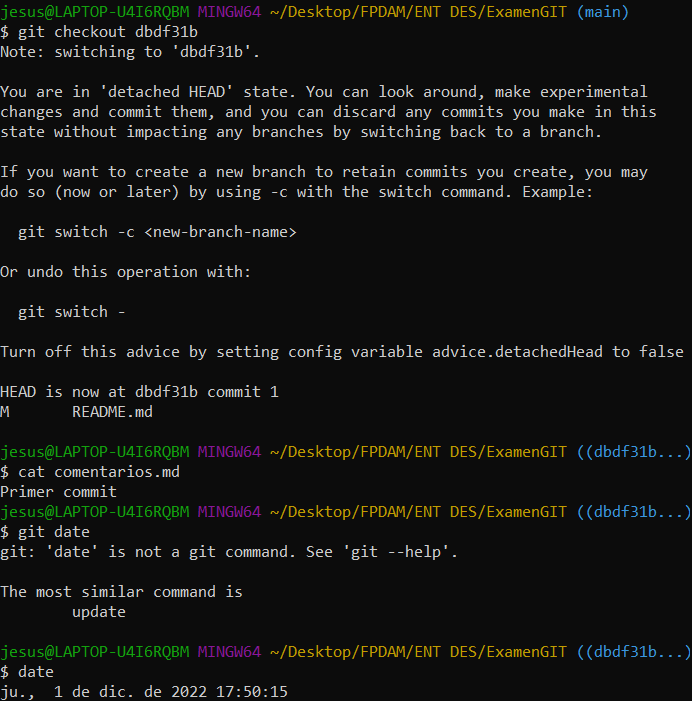
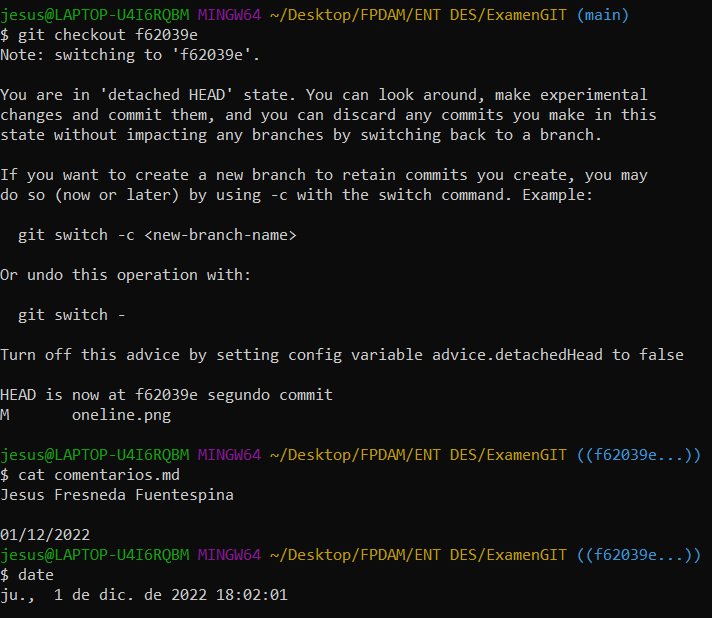
Entrega

diff --git a/README.md b/README.md
@@ -69,19 +69,13 @@ Esos son los commits que tiene nuestro repositorio actualmente. Para comprobar q
 git checkout *cabecera
 ~~~
 
-Por ejemplo, en el commit "commit 1":
+Por ejemplo, en el commit "segundo commit":
 
 ![](checkout1.png)
 
-En el commit "commit 2":
+En el commit "primer commit":
 
 ![](checkout2.png)
-
-Y en el commit "commit 3"
-
-![](checkout3.png)
-
-Y finalmente para movernos a la posición actual de nuestros commits:
 
 ~~~
 git checkout main
